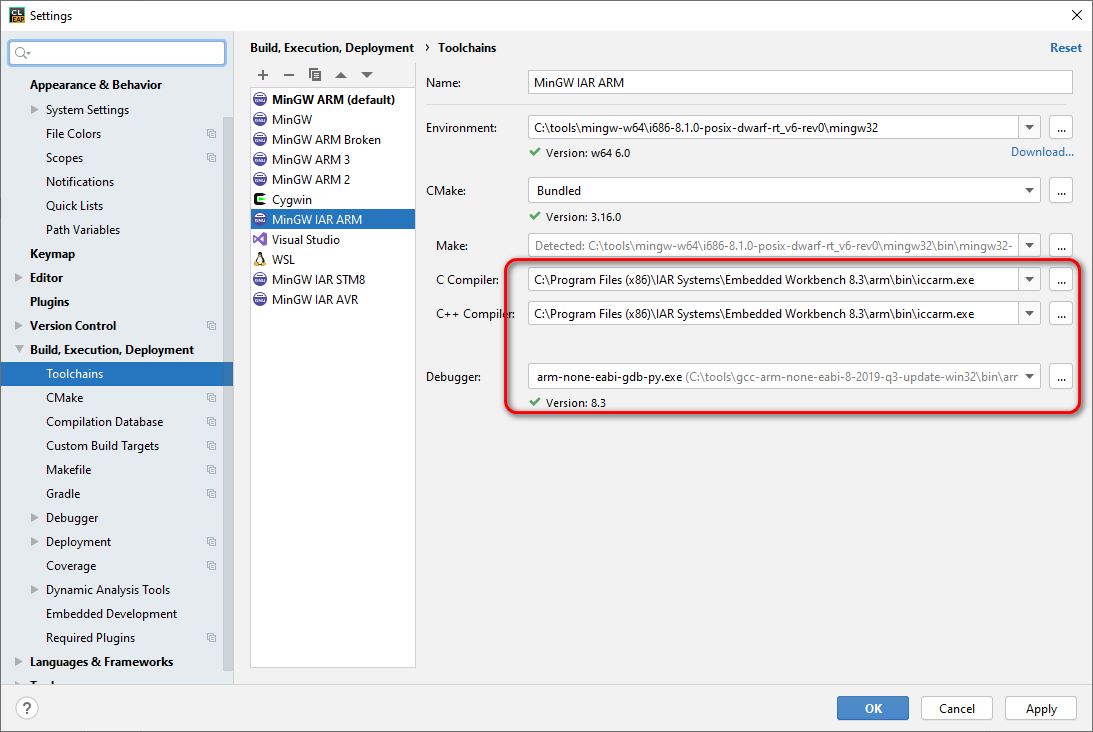
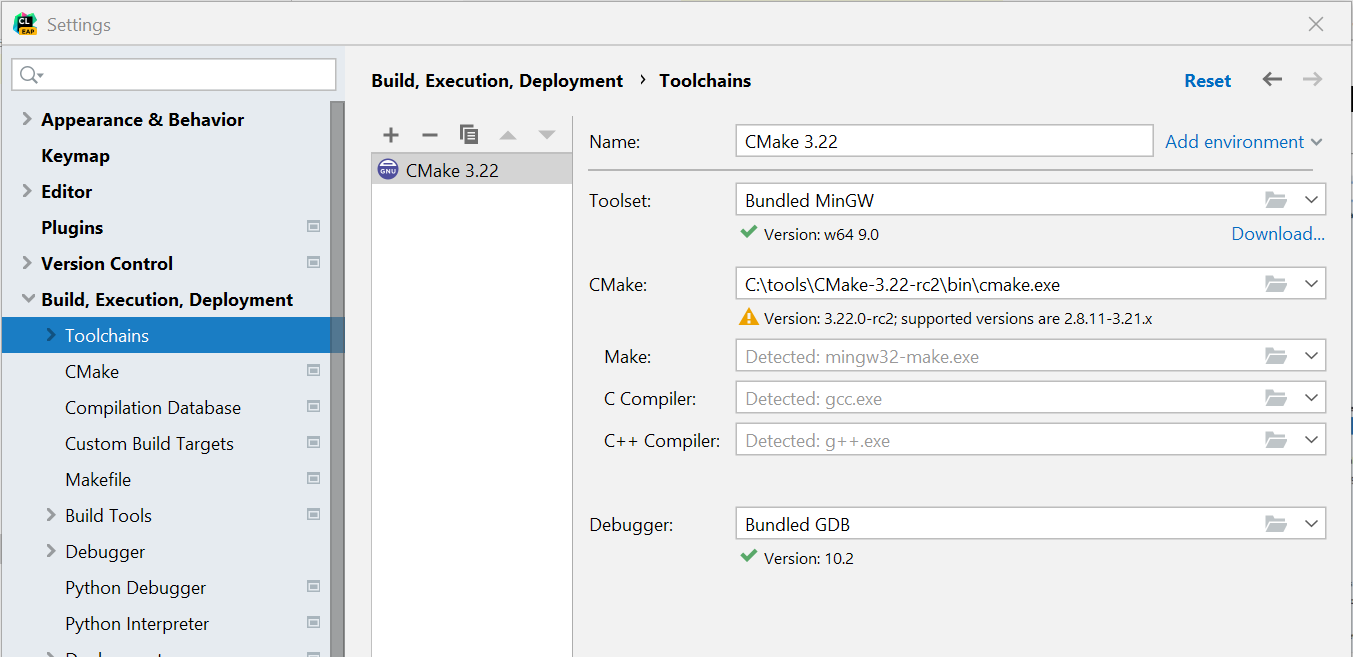
Adjustments for CLion 2021.3

diff --git a/Core/Src/cppmain.cpp b/Core/Src/cppmain.cpp
@@ -1,7 +1,7 @@
 #include <main.h>
 #include <cstdio>
 
-extern "C" void cppMain(void);
+extern "C" [[noreturn]] void cppMain(void);
 
 /**
   @brief         In-place 32 bit reversal function.
@@ -13,10 +13,12 @@ extern "C" void cppMain(void);
 extern "C" void arm_bitreversal_32(
     uint32_t *pSrc,
     uint16_t bitRevLen,
-uint16_t *pBitRevTab);
+[[maybe_unused]] uint16_t *pBitRevTab);
 
-void cppMain() {
-    HAL_Delay(500);
-    HAL_GPIO_TogglePin(LD3_GPIO_Port,LD3_Pin);
-    printf("arm_bitreversal_32 function address: 0x%08x",&arm_bitreversal_32);
+[[noreturn]] void cppMain() {
+    printf("arm_bitreversal_32 function address: 0x%08x\n", &arm_bitreversal_32);
+    while(true) {
+        HAL_Delay(500);
+        HAL_GPIO_TogglePin(LD3_GPIO_Port, LD3_Pin);
+    }
 }

diff --git a/Core/Src/main.c b/Core/Src/main.c
@@ -100,12 +100,10 @@ int main(void)
 
   /* Infinite loop */
   /* USER CODE BEGIN WHILE */
-  while (1)
-  {
+  /***** While loop is moved to cppMain()  *****/
     /* USER CODE END WHILE */
     /* USER CODE BEGIN 3 */
     cppMain();
-  }
   /* USER CODE END 3 */
 }
 

diff --git a/Readme.md b/Readme.md
@@ -7,13 +7,12 @@ If it’s not used(i.e. you do not use that or your chip is not STM32), just ski
 
 # Prerequisites
 
-*   Windows 7+
-*   Stm32CubeMX
-*   IAR Embedded WorkBench for ARM with a license
-*   MinGW installed
-*   STM32F3-Discovery
-*   OpenOCD 
-
+* CLion 2021.3+
+* Stm32CubeMX 6.3.0+
+* CMake 3.22 (3.22-rc2 as on 9-Nov-2021)
+* IAR Embedded WorkBench for ARM with a license
+* STM32F3-Discovery
+* OpenOCD
 
 # Create a project
 
@@ -27,18 +26,20 @@ Start Stm32CubeMX, open board selector, STM32F3-Discovery, and create the projec
 
 Then generate the project
 
-# Clion Build settings
+# Clion Toolchains settings
 
 ![Clion Settings Toolchains](docs/clion-settings-toolchain.png "Clion Settings Toolchains")
-
-![Clion Settings Toolchains](docs/clion-settings-cmake.png "Clion Settings Toolchains")
 
 # CLion project adjustments
 
 1. Open the project in CLion (ignore CMake errors reported)
 2. Write _CMakeLists.txt_ as here [CMakeLists.txt](CMakeLists.txt)
-3. Add your code to the main() function
-4. Right-click _CMakeLists.txt_ in the project tree and click _Load CMake Project_
+3. Use [toolchain file](toolchain-iar-9-arm.cmake) from this project. 
+Ensure that  IAR toolchain root location is correct. 
+4. Use [CMake presets file](CMakePresets.json) from this project
+5. Add your code to `main()` and `cppMain` functions
+6. Right-click _CMakeLists.txt_ in the project tree and click _Load CMake Project_
+7. Open *File | Settings | Build, Execution, Deployment | CMake* dialog and enable `Default ` profile
 
 # Debug
 
@@ -49,13 +50,9 @@ Then generate the project
     4. Click “Copy to Project & Use” \
         ![Run Configuration Settings](docs/run-config.png "Run Configuration Settings")
     5. Open OpenOCD config file and add to the very end \
-2. Set breakpoint to the very beginning of main()
-3. Click debug button
-4. Wait a bit
-5. Debugger works
+2. (Optional) Enable semihosting via [.gdbinit](.gdbinit)
+3. Set breakpoint to the very beginning of main()
+4. Click debug button
+5. Wait a bit
+6. Debugger works
 7. Enjoy!
-
-# Add C++ code
-
-There is a [pull request](https://github.com/elmot/clion-iar-stm32f3-stub/pull/2) 
-with necessary changes and a small example
